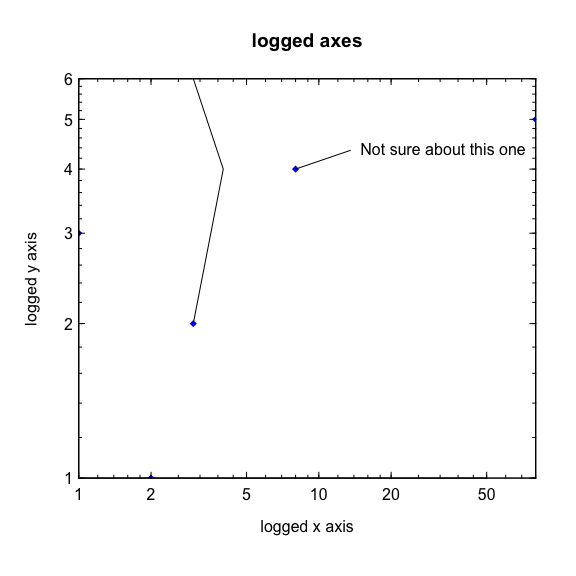
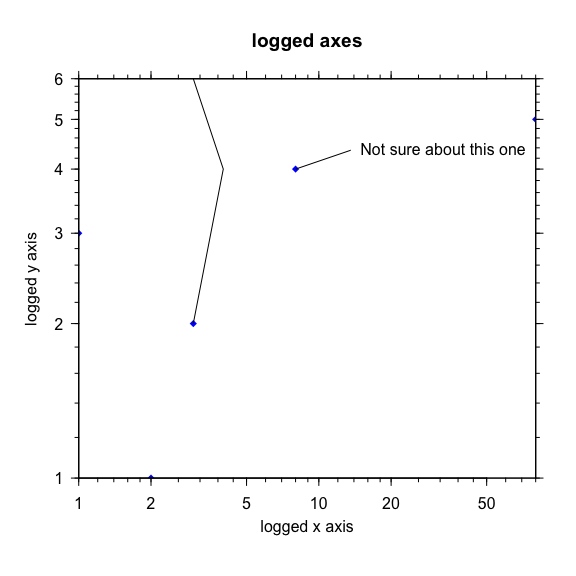
change to readme to capture tcl.minor defaults

diff --git a/README.md b/README.md
@@ -337,9 +337,9 @@ demoPlot
 ![](README_files/figure-markdown_github/unnamed-chunk-20-1.png)
 
 ``` r
-gs <- gsplot() %>%
+gs <- gsplot(mgp=c(1.4,0.8,0)) %>%
   points(y=c(3,1,2,4,5), x=c(1:3,8,80), 
-         col="blue", pch=18, legend.name="Points") %>%
+         col="blue", pch=18, legend.name="Points", tcl=-0.38) %>%
   lines(c(3,4,3), c(2,4,6), legend.name="Lines", 
         ylab="logged y axis", xlab="logged x axis", log='xy') %>%
   callouts(x=8, y=4, lwd=2, angle=45, labels="Not sure about this one") %>%
